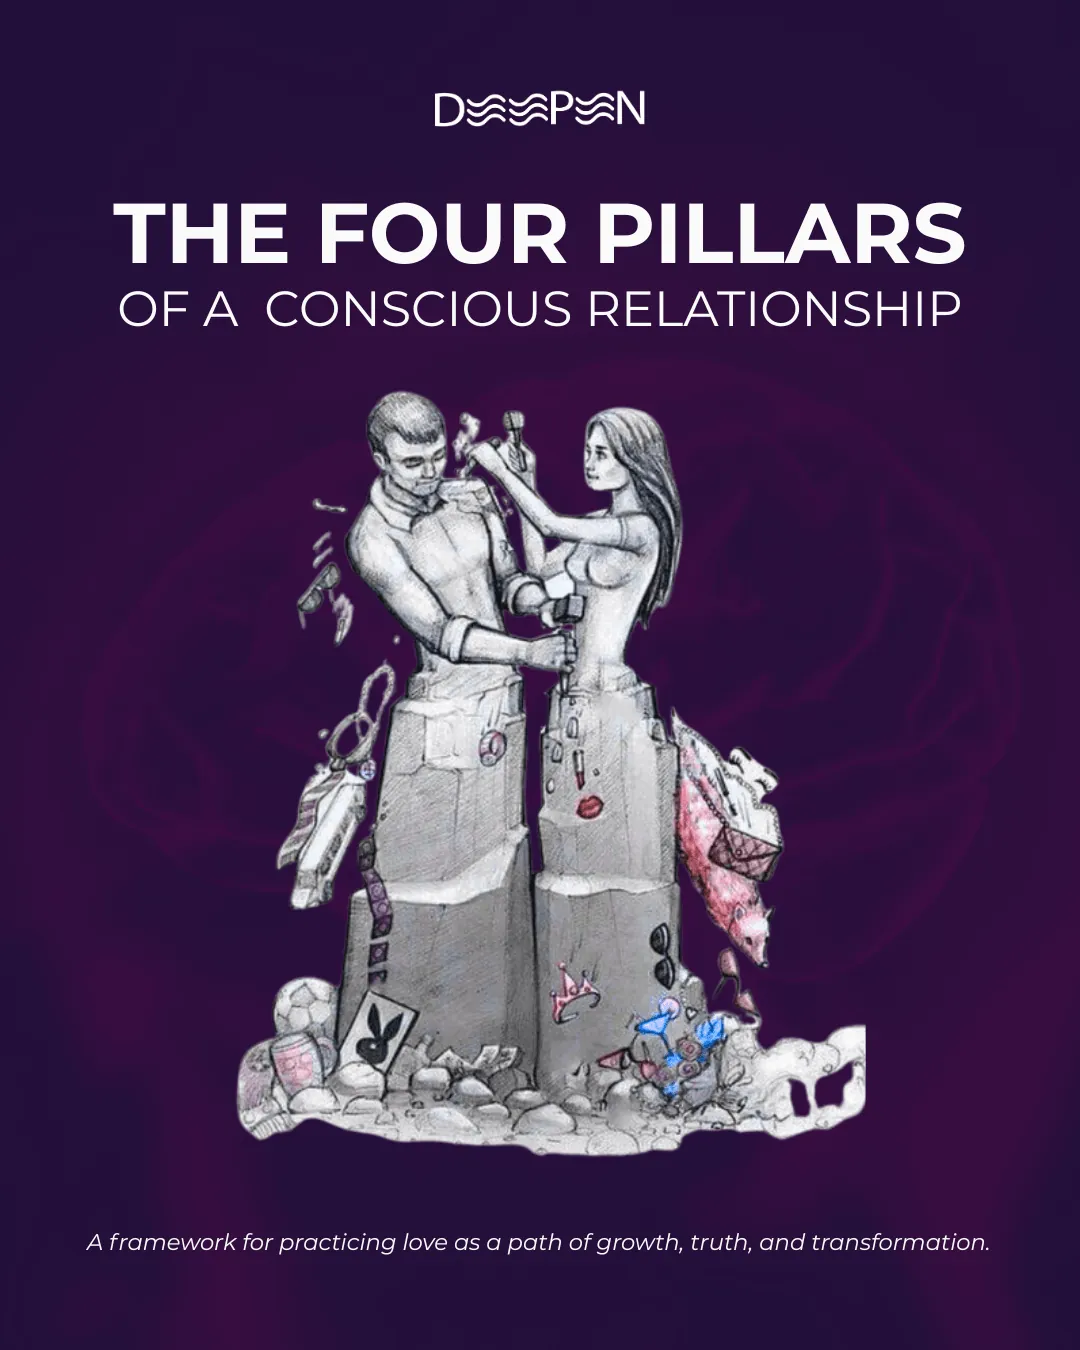
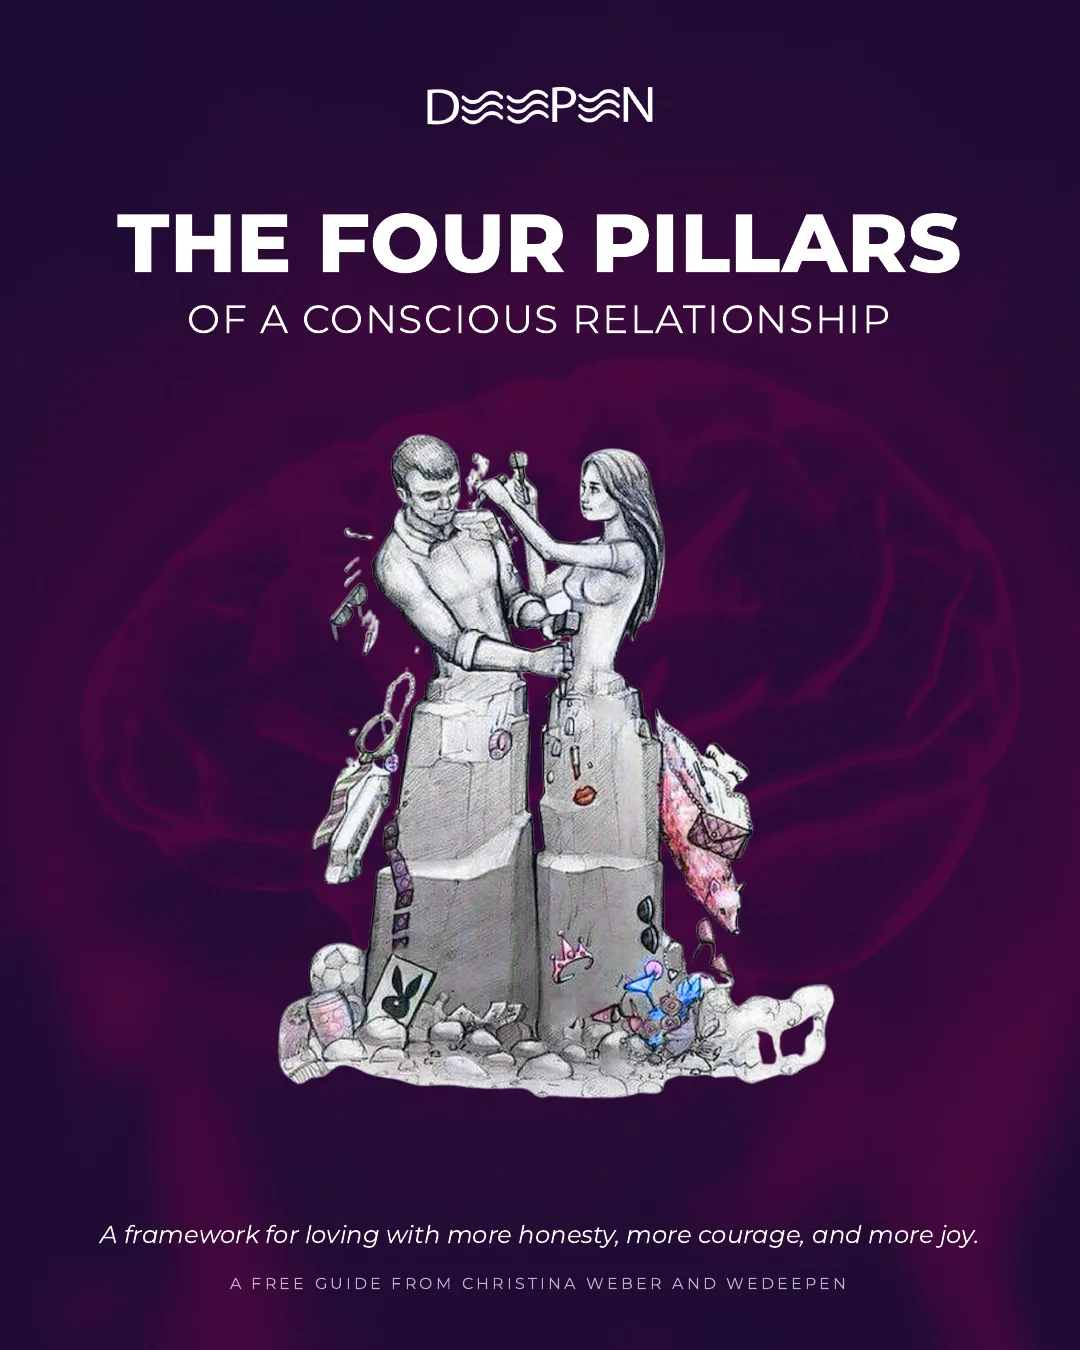
/four-pillars/: match the new guide (full pillar wording, new cover)
- Pillar headings use Shelly Bullard's full wording, matching guide v2
- Meta description and JSON-LD terms updated to the same wording
- Cover image (page + free-guide popup thumb) and share image rebuilt
  from the new PDF cover
- "hell" to "heck" in Pillar 3, as in the guide

diff --git a/four-pillars/index.html b/four-pillars/index.html
@@ -25,7 +25,7 @@
   <script src="/js/checkout-tracking.js?v=3" defer></script>
 
   <title>The 4 Pillars of a Conscious Relationship | WeDeepen</title>
-  <meta name="description" content="The four pillars of a conscious relationship: prioritize growth, own your own sh*t, all feelings are welcome, practice love. Here's how.">
+  <meta name="description" content="The four pillars of a conscious relationship: no attachment to outcome, own your own sh*t, all feelings are welcome, and the relationship is a place to practice love.">
   <meta name="robots" content="index, follow">
   <link rel="canonical" href="https://wedeepen.com/four-pillars/">
 
@@ -189,7 +189,7 @@
       "@type": "Article",
       "@id": "https://wedeepen.com/four-pillars/#article",
       "headline": "The Four Pillars of a Conscious Relationship",
-      "description": "The Four Pillars of a Conscious Relationship: Prioritize Growth, Own Your Own Sh*t, All Feelings Are Welcome, Practice Love. The framework we practice inside the WeDeepen Membership and at every Love Immersion. Free guide.",
+      "description": "The Four Pillars of a Conscious Relationship: No Attachment to Outcome, Growth Comes First; Own Your Own Sh*t; All Feelings Are Welcome, No Internal Process Is Condemned; The Relationship Is a Place to Practice Love. The framework we practice inside the WeDeepen Membership and at every Love Immersion. Free guide.",
       "url": "https://wedeepen.com/four-pillars/",
       "author": {
         "@id": "https://wedeepen.com/about/#christina-weber"
@@ -215,28 +215,28 @@
       "hasDefinedTerm": [
         {
           "@type": "DefinedTerm",
-          "name": "Prioritize growth",
+          "name": "No attachment to outcome. Growth comes first.",
           "inDefinedTermSet": {
             "@id": "https://wedeepen.com/four-pillars/#pillars"
           }
         },
         {
           "@type": "DefinedTerm",
-          "name": "Own your own sh*t",
+          "name": "Own your own sh*t.",
           "inDefinedTermSet": {
             "@id": "https://wedeepen.com/four-pillars/#pillars"
           }
         },
         {
           "@type": "DefinedTerm",
-          "name": "All feelings are welcome",
+          "name": "All feelings are welcome. No internal process is condemned.",
           "inDefinedTermSet": {
             "@id": "https://wedeepen.com/four-pillars/#pillars"
           }
         },
         {
           "@type": "DefinedTerm",
-          "name": "Practice love",
+          "name": "The relationship is a place to practice love.",
           "inDefinedTermSet": {
             "@id": "https://wedeepen.com/four-pillars/#pillars"
           }
@@ -364,8 +364,8 @@
         <div class="grid md:grid-cols-12 gap-6 md:gap-10 py-12 border-t border-white/10">
           <div class="md:col-span-1"><div class="font-heading text-5xl text-gold leading-none">1</div></div>
           <div class="md:col-span-11">
-            <h2 class="font-heading text-2xl md:text-3xl text-white mb-2 leading-snug">Prioritize growth.</h2>
-            <p class="text-gold/85 mb-5">The conscious couple is not attached to the outcome of the relationship. Growth comes first.</p>
+            <h2 class="font-heading text-2xl md:text-3xl text-white mb-2 leading-snug">No attachment to outcome. Growth comes first.</h2>
+            <p class="text-gold/85 mb-5">Prioritize growth: be more committed to who you&rsquo;re becoming than to making it &ldquo;work.&rdquo;</p>
           <p class="text-white/70 leading-relaxed mb-4">Not being attached to the outcome doesn&rsquo;t mean you don&rsquo;t care what happens, or that you have no picture of how it might turn out. It means you are more committed to growing than to making the relationship &ldquo;work.&rdquo;</p>
           <p class="text-white/70 leading-relaxed mb-4">We are here to grow: physically, mentally, emotionally, spiritually. When growth stops, something feels wrong, because it is. Most relationships stifle growth rather than feed it. We shrink to please each other, and the relationship starts to feel like a cage. The truth is, we caged ourselves.</p>
           <p class="text-white/70 leading-relaxed mb-4">The conscious couple values growth above everything else, even at the risk of outgrowing the relationship. That risk is exactly what keeps it alive.</p>
@@ -375,7 +375,7 @@
           <div class="md:col-span-1"><div class="font-heading text-5xl text-gold leading-none">2</div></div>
           <div class="md:col-span-11">
             <h2 class="font-heading text-2xl md:text-3xl text-white mb-2 leading-snug">Own your own sh*t.</h2>
-            <p class="text-gold/85 mb-5">Each person is committed to taking responsibility for their wounds, reactions, and patterns.</p>
+            <p class="text-gold/85 mb-5">Both partners agree to own their own sh*t: their wounds, reactions, and patterns.</p>
           <p class="text-white/70 leading-relaxed mb-4">Everyone carries wounds from the past, and closeness will trigger them. The conscious couple expects to feel abandoned, trapped, rejected, or overlooked at some point, and doesn&rsquo;t treat that as proof something has gone terribly wrong.</p>
           <p class="text-white/70 leading-relaxed mb-4">Those feelings come from our own patterning and limiting beliefs, not from our partner. Dysfunctional patterns dissolve only when we take responsibility for them first. Blame keeps you stuck. Ownership sets you free.</p>
           </div>
@@ -383,17 +383,17 @@
         <div class="grid md:grid-cols-12 gap-6 md:gap-10 py-12 border-t border-white/10">
           <div class="md:col-span-1"><div class="font-heading text-5xl text-gold leading-none">3</div></div>
           <div class="md:col-span-11">
-            <h2 class="font-heading text-2xl md:text-3xl text-white mb-2 leading-snug">All feelings are welcome.</h2>
-            <p class="text-gold/85 mb-5">No internal process is condemned.</p>
-          <p class="text-white/70 leading-relaxed mb-4">In a conscious relationship there is room to feel anything, and room to say it. This is edgy territory. You may not like what you hear; it may trigger the hell out of you. You&rsquo;re willing to be triggered if it means your partner gets to be real.</p>
+            <h2 class="font-heading text-2xl md:text-3xl text-white mb-2 leading-snug">All feelings are welcome. No internal process is condemned.</h2>
+            <p class="text-gold/85 mb-5">Honesty without blame is magnetic.</p>
+          <p class="text-white/70 leading-relaxed mb-4">In a conscious relationship there is room to feel anything, and room to say it. This is edgy territory. You may not like what you hear; it may trigger the heck out of you. You&rsquo;re willing to be triggered if it means your partner gets to be real.</p>
           <p class="text-white/70 leading-relaxed mb-4">Most of us mold ourselves to keep the people we love from leaving. It slowly squeezes the love out of the connection. The only way through is radical honesty: revealing the parts that are hard to share, and letting your partner do the same. That is what it feels like to be known, seen, and understood.</p>
           </div>
         </div>
         <div class="grid md:grid-cols-12 gap-6 md:gap-10 py-12 border-t border-white/10">
           <div class="md:col-span-1"><div class="font-heading text-5xl text-gold leading-none">4</div></div>
           <div class="md:col-span-11">
-            <h2 class="font-heading text-2xl md:text-3xl text-white mb-2 leading-snug">Practice love.</h2>
-            <p class="text-gold/85 mb-5">The relationship is a place to practice love, in every moment, with every person.</p>
+            <h2 class="font-heading text-2xl md:text-3xl text-white mb-2 leading-snug">The relationship is a place to practice love.</h2>
+            <p class="text-gold/85 mb-5">In every moment, with every person.</p>
           <p class="text-white/70 leading-relaxed mb-4">Love is a practice: of acceptance, presence, forgiveness, and stretching your heart into vulnerable territory. We tend to treat it as a destination and chase the peak feeling, then feel cheated when it fades. That misses the point.</p>
           <p class="text-white/70 leading-relaxed mb-4">Love is a journey. It is showing up for every nuance of the relationship and asking, <em>What would love do here?</em> The answer is different every time, and each answer takes you somewhere new. The conscious couple is fiercely committed to being the embodiment of love, and love shows up in their lives in ways they never imagined.</p>
           </div>
